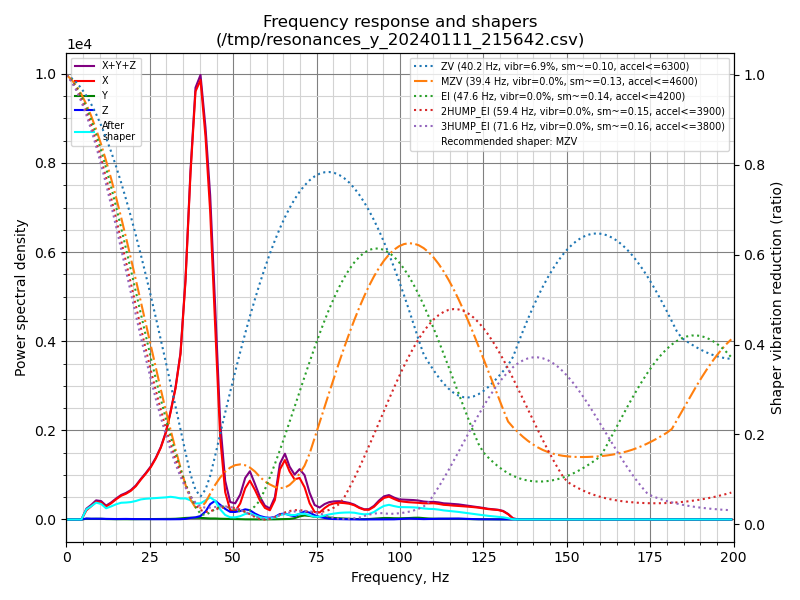
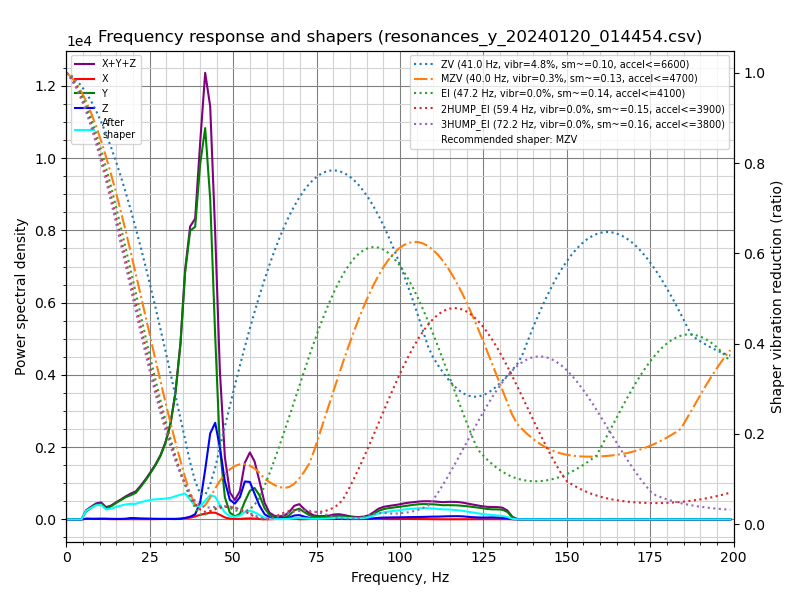
feat: update resonances

diff --git a/hardware/resonances/README.md b/hardware/resonances/README.md
@@ -9,17 +9,17 @@ Measured using ADXL345 over SPI on a Pico running as separate MCU.
 ![shaper_calibrate_x](./shaper_calibrate_x.png)
 
 ```
-Fitted shaper 'zv' frequency = 40.0 Hz (vibrations = 16.4%, smoothing ~= 0.100)
-To avoid too much smoothing with 'zv', suggested max_accel <= 6200 mm/sec^2
-Fitted shaper 'mzv' frequency = 29.0 Hz (vibrations = 4.8%, smoothing ~= 0.242)
-To avoid too much smoothing with 'mzv', suggested max_accel <= 2500 mm/sec^2
-Fitted shaper 'ei' frequency = 37.8 Hz (vibrations = 1.8%, smoothing ~= 0.225)
-To avoid too much smoothing with 'ei', suggested max_accel <= 2700 mm/sec^2
-Fitted shaper '2hump_ei' frequency = 39.0 Hz (vibrations = 0.0%, smoothing ~= 0.355)
+Fitted shaper 'zv' frequency = 40.8 Hz (vibrations = 19.9%, smoothing ~= 0.097)
+To avoid too much smoothing with 'zv', suggested max_accel <= 6500 mm/sec^2
+Fitted shaper 'mzv' frequency = 28.8 Hz (vibrations = 5.9%, smoothing ~= 0.246)
+To avoid too much smoothing with 'mzv', suggested max_accel <= 2400 mm/sec^2
+Fitted shaper 'ei' frequency = 37.4 Hz (vibrations = 2.7%, smoothing ~= 0.230)
+To avoid too much smoothing with 'ei', suggested max_accel <= 2600 mm/sec^2
+Fitted shaper '2hump_ei' frequency = 39.0 Hz (vibrations = 0.3%, smoothing ~= 0.355)
 To avoid too much smoothing with '2hump_ei', suggested max_accel <= 1500 mm/sec^2
-Fitted shaper '3hump_ei' frequency = 81.0 Hz (vibrations = 2.0%, smoothing ~= 0.125)
-To avoid too much smoothing with '3hump_ei', suggested max_accel <= 4800 mm/sec^2
-Recommended shaper is 3hump_ei @ 81.0 Hz
+Fitted shaper '3hump_ei' frequency = 81.6 Hz (vibrations = 2.2%, smoothing ~= 0.123)
+To avoid too much smoothing with '3hump_ei', suggested max_accel <= 4900 mm/sec^2
+Recommended shaper is 3hump_ei @ 81.6 Hz
 ```
 
 ## Y-Axis
@@ -27,15 +27,15 @@ Recommended shaper is 3hump_ei @ 81.0 Hz
 ![shaper_calibrate_y](./shaper_calibrate_y.png)
 
 ```
-Fitted shaper 'zv' frequency = 40.2 Hz (vibrations = 6.9%, smoothing ~= 0.099)
-To avoid too much smoothing with 'zv', suggested max_accel <= 6300 mm/sec^2
-Fitted shaper 'mzv' frequency = 39.4 Hz (vibrations = 0.0%, smoothing ~= 0.131)
-To avoid too much smoothing with 'mzv', suggested max_accel <= 4600 mm/sec^2
-Fitted shaper 'ei' frequency = 47.6 Hz (vibrations = 0.0%, smoothing ~= 0.142)
-To avoid too much smoothing with 'ei', suggested max_accel <= 4200 mm/sec^2
+Fitted shaper 'zv' frequency = 41.0 Hz (vibrations = 4.8%, smoothing ~= 0.096)
+To avoid too much smoothing with 'zv', suggested max_accel <= 6600 mm/sec^2
+Fitted shaper 'mzv' frequency = 40.0 Hz (vibrations = 0.3%, smoothing ~= 0.127)
+To avoid too much smoothing with 'mzv', suggested max_accel <= 4700 mm/sec^2
+Fitted shaper 'ei' frequency = 47.2 Hz (vibrations = 0.0%, smoothing ~= 0.145)
+To avoid too much smoothing with 'ei', suggested max_accel <= 4100 mm/sec^2
 Fitted shaper '2hump_ei' frequency = 59.4 Hz (vibrations = 0.0%, smoothing ~= 0.153)
 To avoid too much smoothing with '2hump_ei', suggested max_accel <= 3900 mm/sec^2
-Fitted shaper '3hump_ei' frequency = 71.6 Hz (vibrations = 0.0%, smoothing ~= 0.160)
+Fitted shaper '3hump_ei' frequency = 72.2 Hz (vibrations = 0.0%, smoothing ~= 0.157)
 To avoid too much smoothing with '3hump_ei', suggested max_accel <= 3800 mm/sec^2
-Recommended shaper is mzv @ 39.4 Hz
+Recommended shaper is mzv @ 40.0 Hz
 ```
